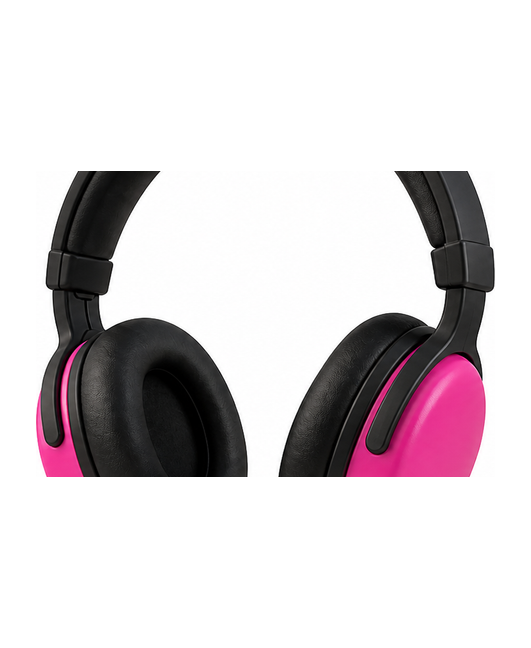
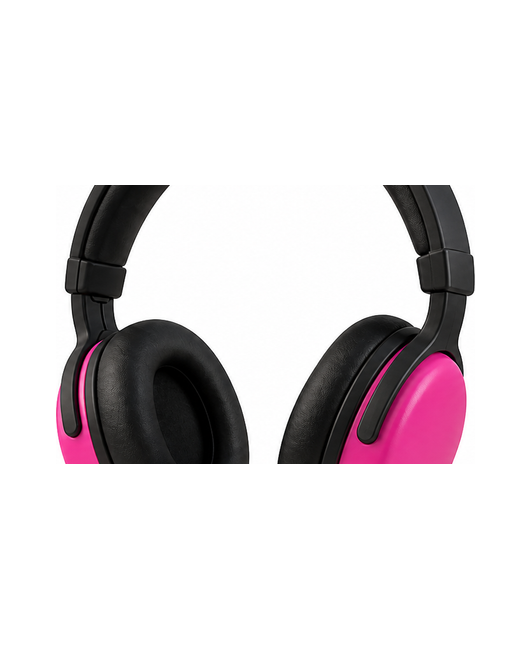
Fix Ikram item cards clipping illustrations in Schedule Player.
Treat ikram/items as illustration-only with object-contain and no contain-zoom, and reframe headphones with extra safe padding.

Changed region(s): [[0.5122, 0.2469, 0.9341, 0.7407], [0.0603, 0.2469, 0.4821, 0.7407], [0.2712, 0.463, 0.3013, 0.4938]]

diff --git a/src/lib/utils/visual-card-url.ts b/src/lib/utils/visual-card-url.ts
@@ -22,6 +22,17 @@ export function isPixtoLearnLibraryStockImageUrl(
 }
 
 /**
+ * Object-only item cards (Ikram items, Emmanuel icons, etc.) — centred contain, no zoom crop.
+ */
+export function isPixtoLearnItemObjectCardUrl(
+  url: string | undefined,
+): boolean {
+  if (!url) return false;
+  const u = url.toLowerCase();
+  return u.includes("/items/") || u.includes("/icons/");
+}
+
+/**
  * Illustration-only assets (531×648) for HTML `GeneratedPixtoCard` shells — participant
  * scenes, focus variants, library stock, etc. Must use `object-contain`, not cover crop.
  */
@@ -33,17 +44,21 @@ export function isPixtoLearnIllustrationOnlyUrl(url: string | undefined): boolea
     u.includes("/scenes-2d/") ||
     u.includes("/cards/day centre/general/") ||
     u.includes("/cards/day%20centre/general/") ||
+    u.includes("/cards/day centre/timi/") ||
+    u.includes("/cards/day%20centre/timi/") ||
     u.includes("/cards/core/finish3d.png") ||
+    isPixtoLearnItemObjectCardUrl(url) ||
     isPixtoLearnLibraryStockImageUrl(url)
   );
 }
 
-/** Schedule / Focus contain zoom — skip full WOW pack cards (embedded title strip). */
+/** Schedule / Focus contain zoom — skip full WOW pack cards and tall object items. */
 export function shouldApplyDigitalIllustrationContainZoom(
   url: string | undefined,
 ): boolean {
   if (!url) return false;
   if (isPixtoLearnFullBleedCardUrl(url)) return false;
+  if (isPixtoLearnItemObjectCardUrl(url)) return false;
   return isPixtoLearnIllustrationOnlyUrl(url);
 }
 
